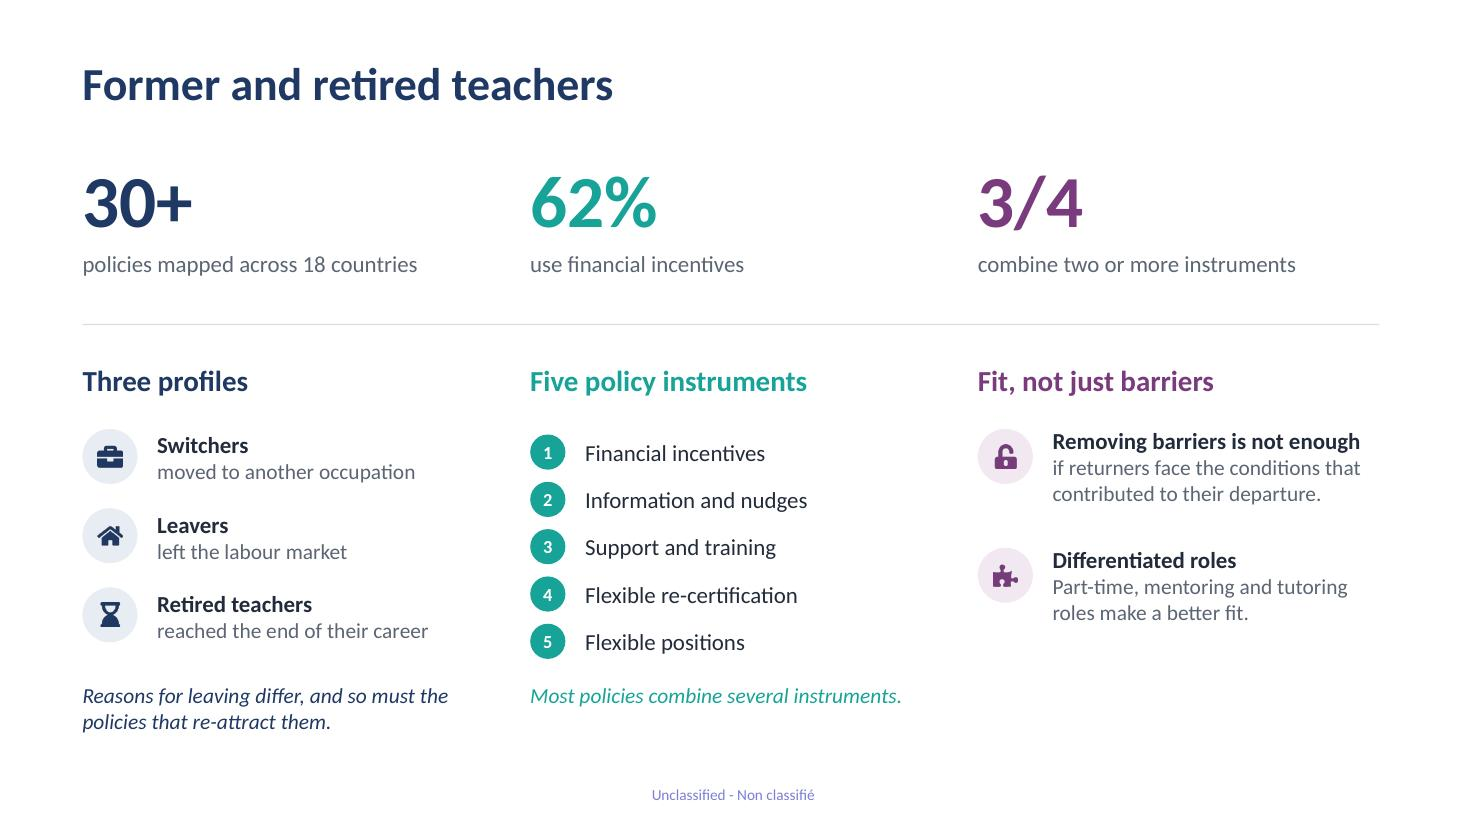
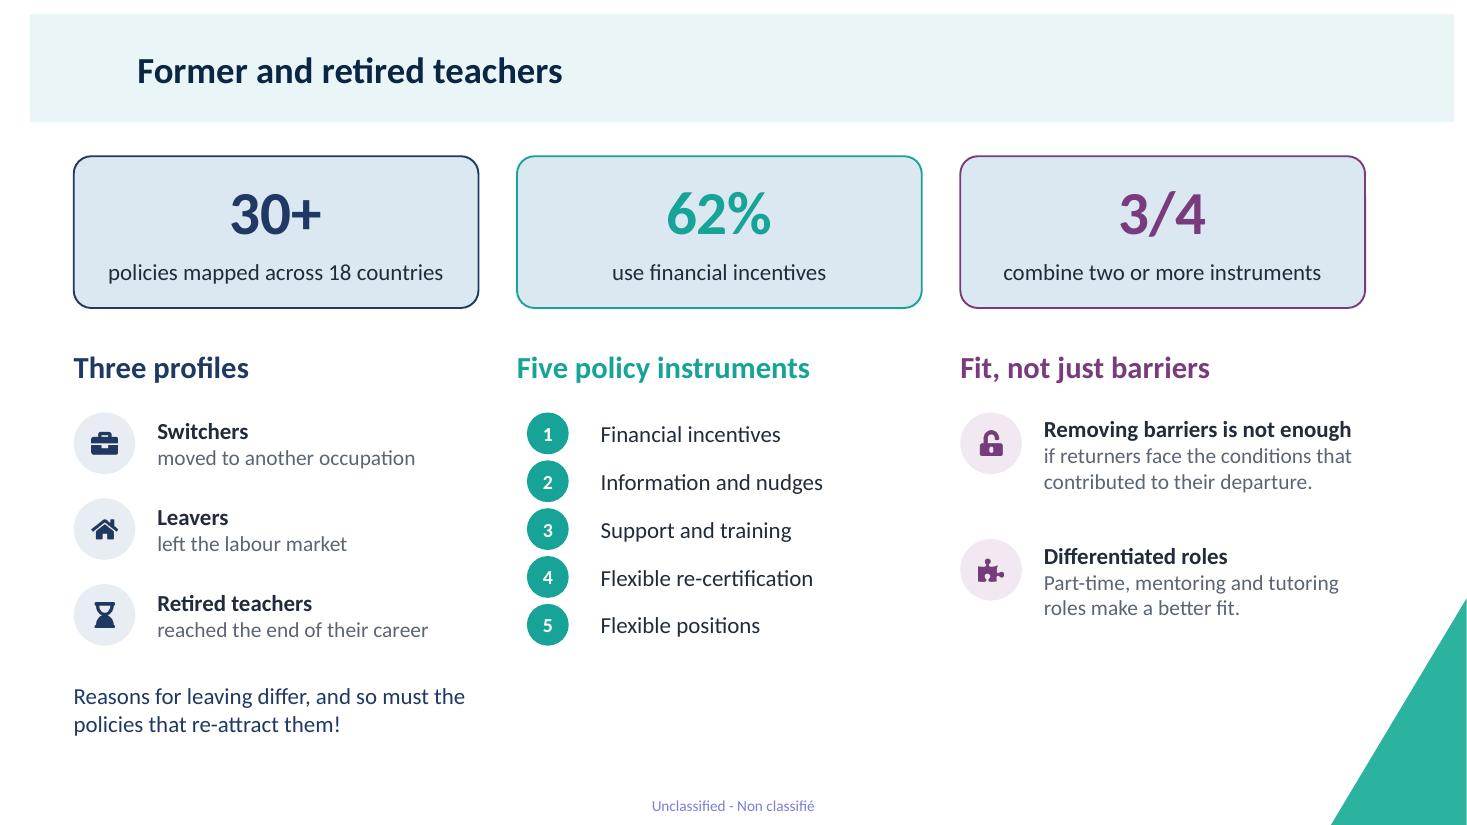
Slide: align content to the OECD template and restore stat boxes
Claude-Session: https://claude.ai/code/session_01DNzQPDcr3zfLTraMHUHqUn

diff --git a/report/former_teachers/slides/build.js b/report/former_teachers/slides/build.js
@@ -21,74 +21,78 @@ async function icon(Comp, color) {
   const s = pres.addSlide();
   s.background = { color: "FFFFFF" };
 
-  const X0 = 0.75, COLW = 3.65, GAP = 0.42;
+  const GUIDES = process.argv[3] === "guides";
+  const X0 = 0.67, COLW = 3.68, GAP = 0.35;
   const colX = i => X0 + i * (COLW + GAP);
   const T = (text, o) => s.addText(text, Object.assign({ isTextBox: true, margin: 0, fontFace: "Calibri" }, o));
 
-  // Title
-  T("Former and retired teachers", { x: X0, y: 0.45, w: 11.8, h: 0.6, fontSize: 30, bold: true, color: NAVY });
+  if (GUIDES) { // preview only: template header band, title and corner triangle
+    s.addShape(pres.shapes.RECTANGLE, { x: 0.27, y: 0.13, w: 12.95, h: 0.98, fill: { color: "EAF5F8" }, line: { type: "none" } });
+    T("Former and retired teachers", { x: 1.25, y: 0.38, w: 8, h: 0.5, fontSize: 24, bold: true, color: "0B2545" });
+    s.addShape(pres.shapes.RIGHT_TRIANGLE, { x: 12.1, y: 5.44, w: 1.233, h: 2.06, flipH: true, fill: { color: "2BB3A0" }, line: { type: "none" } });
+  }
 
-  // Key figures
+  // Key figures in boxes
   const stats = [["30+", "policies mapped across 18 countries", NAVY],
                  ["62%", "use financial incentives", TEAL],
                  ["3/4", "combine two or more instruments", PURPLE]];
   stats.forEach(([n, lab, c], i) => {
-    T(n, { x: colX(i), y: 1.4, w: COLW, h: 0.8, fontSize: 48, bold: true, color: c, valign: "bottom" });
-    T(lab, { x: colX(i), y: 2.22, w: COLW, h: 0.35, fontSize: 15, color: GREY });
+    s.addShape(pres.shapes.ROUNDED_RECTANGLE, { x: colX(i), y: 1.42, w: COLW, h: 1.38, rectRadius: 0.16,
+      fill: { color: "DCE8F1" }, line: { color: c, width: 1.25 } });
+    T(n, { x: colX(i), y: 1.55, w: COLW, h: 0.72, fontSize: 40, bold: true, color: c, align: "center", valign: "middle" });
+    T(lab, { x: colX(i), y: 2.3, w: COLW, h: 0.34, fontSize: 15, color: INK, align: "center", valign: "middle" });
   });
-  s.addShape(pres.shapes.LINE, { x: X0, y: 2.95, w: colX(2) + COLW - X0, h: 0, line: { color: LINE, width: 0.75 } });
 
-  // Column headers
+  // Column headers, same baseline
   const heads = [["Three profiles", NAVY], ["Five policy instruments", TEAL], ["Fit, not just barriers", PURPLE]];
-  heads.forEach(([h, c], i) => T(h, { x: colX(i), y: 3.25, w: COLW, h: 0.4, fontSize: 19, bold: true, color: c }));
+  heads.forEach(([h, c], i) => T(h, { x: colX(i), y: 3.12, w: COLW, h: 0.42, fontSize: 20, bold: true, color: c, valign: "middle" }));
 
-  const Y1 = 3.9;
+  const Y1 = 3.75;
 
-  // Column 1: profiles with icons
+  // Column 1: profiles
   const profiles = [[fa.FaBriefcase, "Switchers", "moved to another occupation"],
                     [fa.FaHome, "Leavers", "left the labour market"],
                     [fa.FaHourglassEnd, "Retired teachers", "reached the end of their career"]];
   for (let k = 0; k < profiles.length; k++) {
     const [I, name, desc] = profiles[k];
-    const y = Y1 + k * 0.72;
-    s.addShape(pres.shapes.OVAL, { x: colX(0), y, w: 0.5, h: 0.5, fill: { color: TINT[NAVY] }, line: { type: "none" } });
-    s.addImage({ data: await icon(I, NAVY), x: colX(0) + 0.14, y: y + 0.14, w: 0.22, h: 0.22 });
+    const y = Y1 + k * 0.78;
+    s.addShape(pres.shapes.OVAL, { x: colX(0), y, w: 0.56, h: 0.56, fill: { color: TINT[NAVY] }, line: { type: "none" } });
+    s.addImage({ data: await icon(I, NAVY), x: colX(0) + 0.165, y: y + 0.165, w: 0.23, h: 0.23 });
     T([{ text: name, options: { bold: true, color: INK, fontSize: 15, breakLine: true } },
        { text: desc, options: { color: GREY, fontSize: 14 } }],
-      { x: colX(0) + 0.68, y: y - 0.04, w: COLW - 0.68, h: 0.6, valign: "middle" });
+      { x: colX(0) + 0.76, y, w: COLW - 0.76, h: 0.56, valign: "middle" });
   }
 
-  // Column 2: numbered instruments
+  // Column 2: instruments, spread over the same height as column 1
   const inst = ["Financial incentives", "Information and nudges", "Support and training",
                 "Flexible re-certification", "Flexible positions"];
+  const step2 = (2 * 0.78 + 0.56 - 0.38) / 4;
   inst.forEach((t, k) => {
-    const y = Y1 + 0.05 + k * 0.43;
-    s.addShape(pres.shapes.OVAL, { x: colX(1), y, w: 0.32, h: 0.32, fill: { color: TEAL }, line: { type: "none" } });
-    T(String(k + 1), { x: colX(1), y, w: 0.32, h: 0.32, fontSize: 12, bold: true, color: "FFFFFF", align: "center", valign: "middle" });
-    T(t, { x: colX(1) + 0.5, y: y - 0.02, w: COLW - 0.5, h: 0.36, fontSize: 15, color: INK, valign: "middle" });
+    const y = Y1 + k * step2;
+    s.addShape(pres.shapes.OVAL, { x: colX(1) + 0.09, y, w: 0.38, h: 0.38, fill: { color: TEAL }, line: { type: "none" } });
+    T(String(k + 1), { x: colX(1) + 0.09, y, w: 0.38, h: 0.38, fontSize: 13, bold: true, color: "FFFFFF", align: "center", valign: "middle" });
+    T(t, { x: colX(1) + 0.76, y, w: COLW - 0.76, h: 0.38, fontSize: 15, color: INK, valign: "middle" });
   });
 
-  // Column 3: two messages with icons
+  // Column 3: two messages
   const msgs = [[fa.FaUnlockAlt, "Removing barriers is not enough",
                  "if returners face the conditions that contributed to their departure."],
                 [fa.FaPuzzlePiece, "Differentiated roles",
                  "Part-time, mentoring and tutoring roles make a better fit."]];
   for (let k = 0; k < msgs.length; k++) {
     const [I, head, body] = msgs[k];
-    const y = Y1 + k * 1.08;
-    s.addShape(pres.shapes.OVAL, { x: colX(2), y, w: 0.5, h: 0.5, fill: { color: TINT[PURPLE] }, line: { type: "none" } });
-    s.addImage({ data: await icon(I, PURPLE), x: colX(2) + 0.14, y: y + 0.14, w: 0.22, h: 0.22 });
+    const y = Y1 + k * 1.15;
+    s.addShape(pres.shapes.OVAL, { x: colX(2), y, w: 0.56, h: 0.56, fill: { color: TINT[PURPLE] }, line: { type: "none" } });
+    s.addImage({ data: await icon(I, PURPLE), x: colX(2) + 0.165, y: y + 0.165, w: 0.23, h: 0.23 });
     T([{ text: head, options: { bold: true, color: INK, fontSize: 15, breakLine: true } },
        { text: body, options: { color: GREY, fontSize: 14 } }],
-      { x: colX(2) + 0.68, y: y - 0.02, w: COLW - 0.68, h: 0.9, valign: "top" });
+      { x: colX(2) + 0.76, y: y + 0.02, w: COLW - 0.76, h: 0.95, valign: "top" });
   }
 
-  // Take-away lines, aligned across columns
-  const take = ["Reasons for leaving differ, and so must the policies that re-attract them.",
-                "Most policies combine several instruments."];
-  take.forEach((t, i) => T(t, { x: colX(i), y: 6.2, w: COLW, h: 0.55, fontSize: 14, italic: true, color: [NAVY, TEAL, PURPLE][i], valign: "top" }));
+  // Take-away under column 1
+  T("Reasons for leaving differ, and so must the policies that re-attract them!",
+    { x: colX(0), y: 6.2, w: COLW, h: 0.62, fontSize: 15, color: NAVY, valign: "top" });
 
-  T("Unclassified - Non classifié", { x: 0, y: 7.1, w: 13.333, h: 0.25, fontSize: 10, color: "7B7FD6", align: "center" });
-
+  if (GUIDES) T("Unclassified - Non classifié", { x: 0, y: 7.2, w: 13.333, h: 0.25, fontSize: 10, color: "7B7FD6", align: "center" });
   await pres.writeFile({ fileName: process.argv[2] });
 })();
